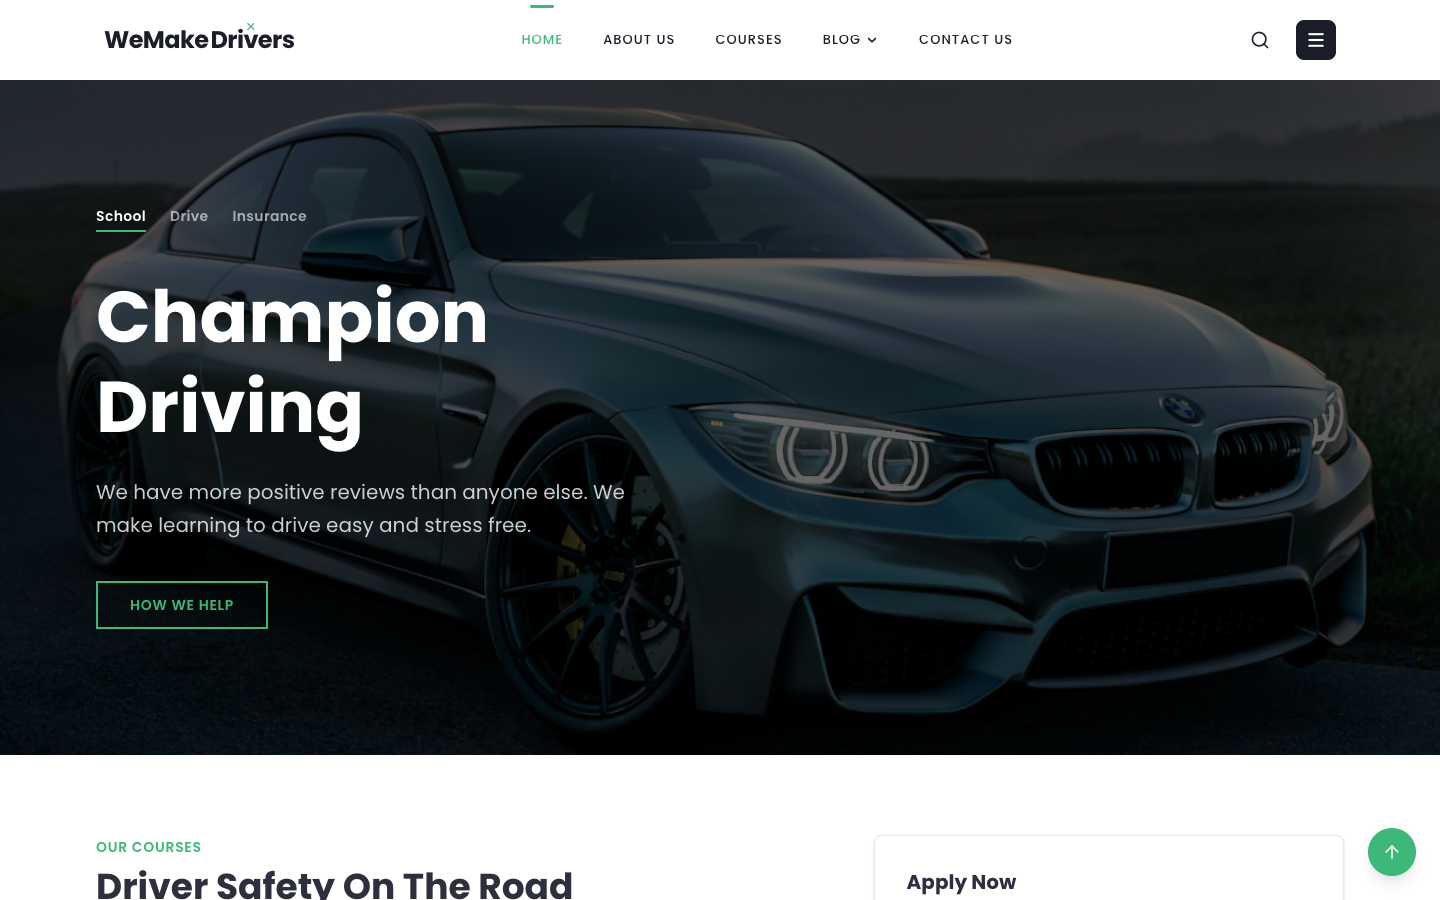
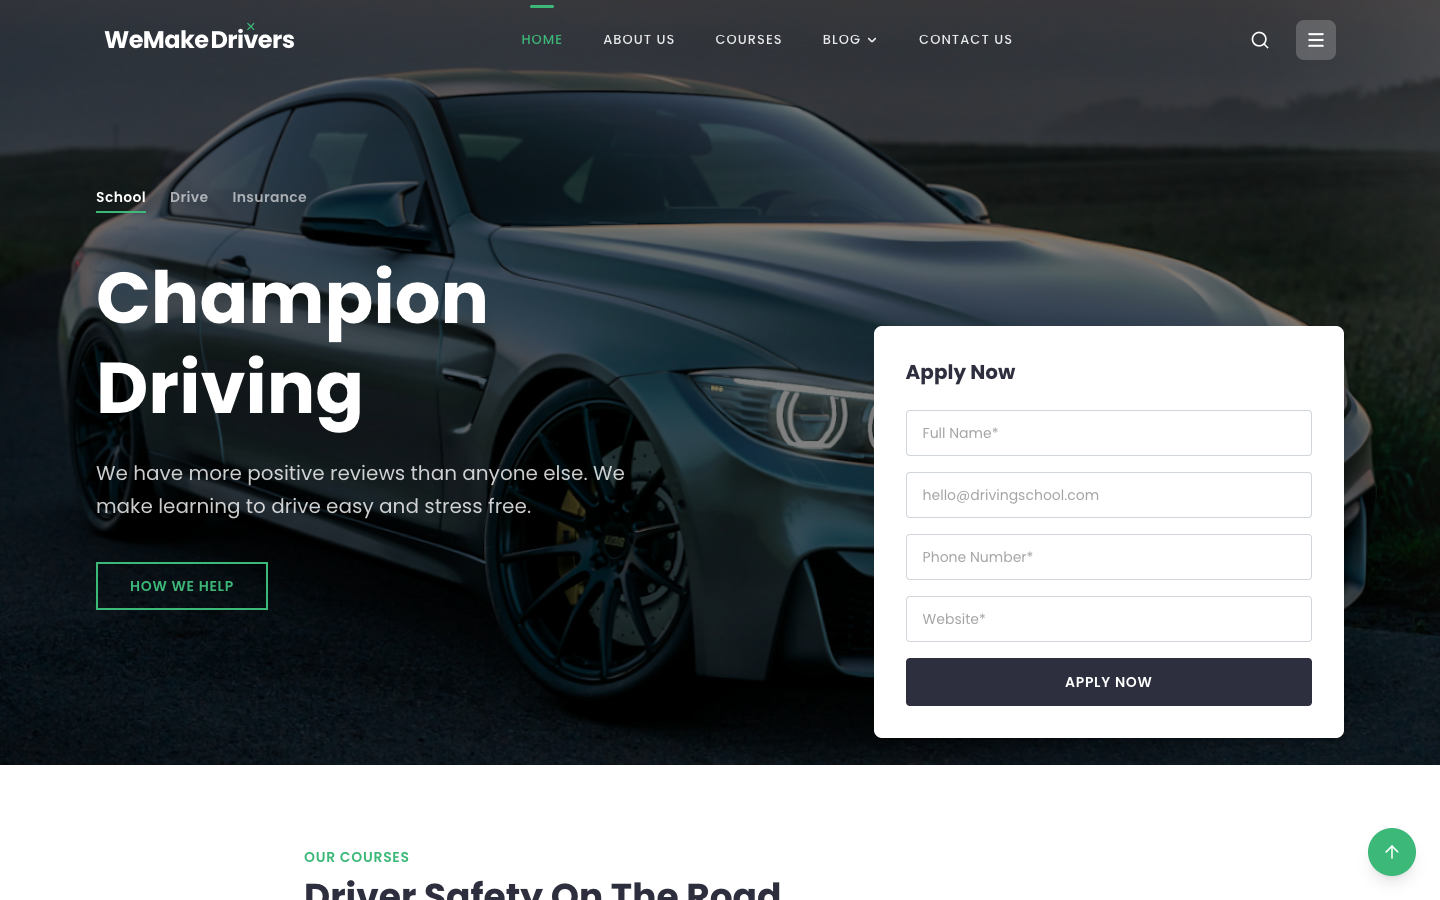
fix: transparent nav on hero, Apply Now form overlapping hero/courses boundary

diff --git a/src/pages/Home.tsx b/src/pages/Home.tsx
@@ -63,115 +63,111 @@ function Home() {
   return (
     <main>
       {/* Section 1 — Hero */}
-      <section className="relative min-h-[75vh] flex items-center overflow-hidden">
+      <section className="relative min-h-[85vh] flex items-center overflow-hidden">
         <div
           className="absolute inset-0 bg-cover bg-center bg-no-repeat"
           style={{
             backgroundImage: 'url(/images/hero-bg.jpg)',
           }}
         />
-        <div className="absolute inset-0 bg-black/60" />
+        <div className="absolute inset-0 bg-black/50" />
 
-        <div className="relative z-10 max-w-7xl mx-auto px-4 w-full py-20">
-          <div className="flex items-center gap-6 mb-10">
-            <button className="text-white text-sm font-semibold tracking-wide pb-1 border-b-2 border-secondary">
-              School
-            </button>
-            <button className="text-white/60 text-sm font-semibold tracking-wide pb-1 border-b-2 border-transparent hover:text-white transition-colors">
-              Drive
-            </button>
-            <button className="text-white/60 text-sm font-semibold tracking-wide pb-1 border-b-2 border-transparent hover:text-white transition-colors">
-              Insurance
-            </button>
+        <div className="relative z-10 max-w-7xl mx-auto px-4 w-full pt-28 pb-20">
+          <div className="grid grid-cols-1 lg:grid-cols-5 gap-12 items-end">
+            {/* Left — Hero text */}
+            <div className="lg:col-span-3">
+              <div className="flex items-center gap-6 mb-10">
+                <button className="text-white text-sm font-semibold tracking-wide pb-1 border-b-2 border-secondary">
+                  School
+                </button>
+                <button className="text-white/60 text-sm font-semibold tracking-wide pb-1 border-b-2 border-transparent hover:text-white transition-colors">
+                  Drive
+                </button>
+                <button className="text-white/60 text-sm font-semibold tracking-wide pb-1 border-b-2 border-transparent hover:text-white transition-colors">
+                  Insurance
+                </button>
+              </div>
+
+              <h1 className="text-5xl md:text-6xl lg:text-7xl font-bold text-white leading-tight mb-6 max-w-2xl">
+                Champion<br />Driving
+              </h1>
+              <p className="text-white/80 text-lg md:text-xl max-w-xl mb-10 leading-relaxed">
+                We have more positive reviews than anyone else. We make learning to drive easy and stress free.
+              </p>
+              <a
+                href="#how-it-works"
+                className="inline-block border-2 border-secondary text-secondary px-8 py-3 font-semibold uppercase tracking-wider text-sm hover:bg-secondary hover:text-white transition-colors"
+              >
+                How We Help
+              </a>
+            </div>
+
+            {/* Right — Apply form (overlapping hero) */}
+            <div className="lg:col-span-2 lg:translate-y-32">
+              <div className="bg-white rounded-lg p-8 shadow-xl">
+                <h3 className="text-xl font-bold text-primary mb-6">Apply Now</h3>
+                <form className="space-y-4">
+                  <input
+                    type="text"
+                    placeholder="Full Name*"
+                    className="w-full border border-gray-300 rounded px-4 py-3 text-sm focus:outline-none focus:border-secondary transition-colors"
+                  />
+                  <input
+                    type="email"
+                    placeholder="hello@drivingschool.com"
+                    className="w-full border border-gray-300 rounded px-4 py-3 text-sm focus:outline-none focus:border-secondary transition-colors"
+                  />
+                  <input
+                    type="tel"
+                    placeholder="Phone Number*"
+                    className="w-full border border-gray-300 rounded px-4 py-3 text-sm focus:outline-none focus:border-secondary transition-colors"
+                  />
+                  <input
+                    type="url"
+                    placeholder="Website*"
+                    className="w-full border border-gray-300 rounded px-4 py-3 text-sm focus:outline-none focus:border-secondary transition-colors"
+                  />
+                  <button
+                    type="submit"
+                    className="w-full bg-primary text-white py-3.5 rounded font-semibold uppercase tracking-wider text-sm hover:bg-accent transition-colors"
+                  >
+                    Apply Now
+                  </button>
+                </form>
+              </div>
+            </div>
           </div>
-
-          <h1 className="text-5xl md:text-6xl lg:text-7xl font-bold text-white leading-tight mb-6 max-w-2xl">
-            Champion<br />Driving
-          </h1>
-          <p className="text-white/80 text-lg md:text-xl max-w-xl mb-10 leading-relaxed">
-            We have more positive reviews than anyone else. We make learning to drive easy and stress free.
-          </p>
-          <a
-            href="#how-it-works"
-            className="inline-block border-2 border-secondary text-secondary px-8 py-3 font-semibold uppercase tracking-wider text-sm hover:bg-secondary hover:text-white transition-colors"
-          >
-            How We Help
-          </a>
         </div>
       </section>
 
-      {/* Section 2 — Courses + Apply Form */}
-      <section className="bg-white py-20">
-        <div className="max-w-7xl mx-auto px-4 grid grid-cols-1 lg:grid-cols-5 gap-12">
-          <div className="lg:col-span-3">
-            <span className="text-secondary text-sm font-semibold uppercase tracking-wider">
-              Our Courses
-            </span>
-            <h2 className="text-3xl md:text-4xl font-bold text-primary mt-2 mb-4">
-              Driver Safety On The Road
-            </h2>
-            <p className="text-gray-500 leading-relaxed mb-10 max-w-lg">
-              We offer a wide range of driving courses tailored to your needs, whether you're a
-              complete beginner or looking to sharpen your skills.
-            </p>
+      {/* Section 2 — Courses */}
+      <section className="bg-white pt-20 pb-20">
+        <div className="max-w-7xl mx-auto px-4 lg:w-3/5">
+          <span className="text-secondary text-sm font-semibold uppercase tracking-wider">
+            Our Courses
+          </span>
+          <h2 className="text-3xl md:text-4xl font-bold text-primary mt-2 mb-4">
+            Driver Safety On The Road
+          </h2>
+          <p className="text-gray-500 leading-relaxed mb-10 max-w-lg">
+            We offer a wide range of driving courses tailored to your needs, whether you're a
+            complete beginner or looking to sharpen your skills.
+          </p>
 
-            <div className="space-y-8">
-              {COURSES.slice(0, 3).map((course) => (
-                <div key={course.id} className="flex items-start gap-4">
-                  <div className="w-12 h-12 rounded-full bg-secondary/10 flex items-center justify-center text-secondary shrink-0 mt-1">
-                    {ICON_MAP[course.icon]}
-                  </div>
-                  <div>
-                    <h3 className="font-bold text-primary text-lg">{course.title}</h3>
-                    <p className="text-gray-500 text-sm leading-relaxed mt-1">
-                      {course.description}
-                    </p>
-                  </div>
-                </div>
-              ))}
-            </div>
-          </div>
-
-          <div className="lg:col-span-2">
-            <div className="bg-white border border-gray-200 rounded-lg p-8 shadow-sm">
-              <h3 className="text-xl font-bold text-primary mb-6">Apply Now</h3>
-              <form className="space-y-4">
-                <div>
-                  <input
-                    type="text"
-                    placeholder="Full Name"
-                    className="w-full border border-gray-300 rounded px-4 py-3 text-sm focus:outline-none focus:border-secondary transition-colors"
-                  />
+          <div className="space-y-8">
+            {COURSES.slice(0, 3).map((course) => (
+              <div key={course.id} className="flex items-start gap-4">
+                <div className="w-12 h-12 rounded-full bg-secondary/10 flex items-center justify-center text-secondary shrink-0 mt-1">
+                  {ICON_MAP[course.icon]}
                 </div>
                 <div>
-                  <input
-                    type="email"
-                    placeholder="Email"
-                    className="w-full border border-gray-300 rounded px-4 py-3 text-sm focus:outline-none focus:border-secondary transition-colors"
-                  />
+                  <h3 className="font-bold text-primary text-lg">{course.title}</h3>
+                  <p className="text-gray-500 text-sm leading-relaxed mt-1">
+                    {course.description}
+                  </p>
                 </div>
-                <div>
-                  <input
-                    type="tel"
-                    placeholder="Phone Number"
-                    className="w-full border border-gray-300 rounded px-4 py-3 text-sm focus:outline-none focus:border-secondary transition-colors"
-                  />
-                </div>
-                <div>
-                  <input
-                    type="url"
-                    placeholder="Website"
-                    className="w-full border border-gray-300 rounded px-4 py-3 text-sm focus:outline-none focus:border-secondary transition-colors"
-                  />
-                </div>
-                <button
-                  type="submit"
-                  className="w-full bg-primary text-white py-3 rounded font-semibold uppercase tracking-wider text-sm hover:bg-accent transition-colors"
-                >
-                  Apply Now
-                </button>
-              </form>
-            </div>
+              </div>
+            ))}
           </div>
         </div>
       </section>

diff --git a/src/components/layout/Header.tsx b/src/components/layout/Header.tsx
@@ -9,10 +9,11 @@ function Header() {
   const [scrolled, setScrolled] = useState(false)
   const location = useLocation()
 
+  const isHome = location.pathname === '/'
   const isActive = (path: string) => location.pathname === path
 
   useEffect(() => {
-    const onScroll = () => setScrolled(window.scrollY > 10)
+    const onScroll = () => setScrolled(window.scrollY > 50)
     window.addEventListener('scroll', onScroll, { passive: true })
     return () => window.removeEventListener('scroll', onScroll)
   }, [])
@@ -21,19 +22,23 @@ function Header() {
     setMobileOpen(false)
   }, [location.pathname])
 
+  const transparent = isHome && !scrolled
+
   return (
     <header
-      className={`w-full sticky top-0 z-50 bg-white transition-shadow duration-300 ${
-        scrolled ? 'shadow-md' : 'shadow-none'
+      className={`w-full fixed top-0 z-50 transition-all duration-300 ${
+        transparent
+          ? 'bg-transparent shadow-none'
+          : 'bg-white shadow-md'
       }`}
     >
       <nav className="max-w-7xl mx-auto px-6 flex items-center justify-between h-20">
         {/* Logo */}
         <Link to="/" className="flex items-center gap-0.5 shrink-0">
-          <span className="text-2xl font-bold tracking-tight text-dark">
+          <span className={`text-2xl font-bold tracking-tight transition-colors ${transparent ? 'text-white' : 'text-dark'}`}>
             WeMake
           </span>
-          <span className="text-2xl font-bold tracking-tight text-dark relative">
+          <span className={`text-2xl font-bold tracking-tight relative transition-colors ${transparent ? 'text-white' : 'text-dark'}`}>
             Dri
             <span className="relative inline-block">
               v
@@ -69,7 +74,7 @@ function Header() {
                       className={`flex items-center gap-1 uppercase text-[13px] font-medium tracking-[0.08em] py-6 transition-colors ${
                         active
                           ? 'text-secondary'
-                          : 'text-dark hover:text-secondary'
+                          : transparent ? 'text-white/90 hover:text-secondary' : 'text-dark hover:text-secondary'
                       }`}
                     >
                       {link.label}
@@ -104,7 +109,7 @@ function Header() {
                     className={`block uppercase text-[13px] font-medium tracking-[0.08em] py-6 transition-colors ${
                       active
                         ? 'text-secondary'
-                        : 'text-dark hover:text-secondary'
+                        : transparent ? 'text-white/90 hover:text-secondary' : 'text-dark hover:text-secondary'
                     }`}
                   >
                     {link.label}
@@ -119,7 +124,7 @@ function Header() {
         <div className="flex items-center gap-4 shrink-0">
           {/* Search icon */}
           <button
-            className="hidden lg:flex items-center justify-center w-10 h-10 text-dark hover:text-secondary transition-colors"
+            className={`hidden lg:flex items-center justify-center w-10 h-10 hover:text-secondary transition-colors ${transparent ? 'text-white' : 'text-dark'}`}
             aria-label="Search"
           >
             <Search size={20} strokeWidth={2} />
@@ -127,7 +132,7 @@ function Header() {
 
           {/* Hamburger icon — dark rounded square */}
           <button
-            className="flex items-center justify-center w-10 h-10 bg-dark rounded-lg text-white hover:bg-dark/90 transition-colors"
+            className={`flex items-center justify-center w-10 h-10 rounded-lg transition-colors ${transparent ? 'bg-white/20 text-white hover:bg-white/30' : 'bg-dark text-white hover:bg-dark/90'}`}
             onClick={() => setMobileOpen(!mobileOpen)}
             aria-label="Toggle menu"
           >

diff --git a/src/components/layout/Layout.tsx b/src/components/layout/Layout.tsx
@@ -5,6 +5,7 @@ import Footer from './Footer'
 
 function Layout() {
   const { pathname } = useLocation()
+  const isHome = pathname === '/'
 
   useEffect(() => {
     window.scrollTo(0, 0)
@@ -13,7 +14,7 @@ function Layout() {
   return (
     <div className="min-h-screen flex flex-col">
       <Header />
-      <main className="flex-1">
+      <main className={`flex-1 ${isHome ? '' : 'pt-20'}`}>
         <Outlet />
       </main>
       <Footer />
